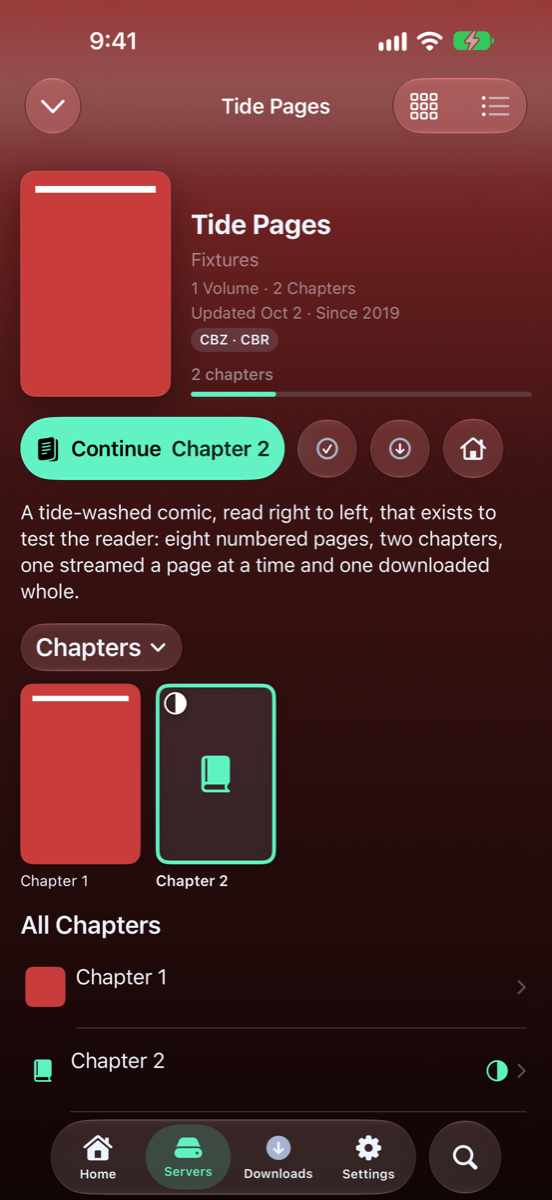
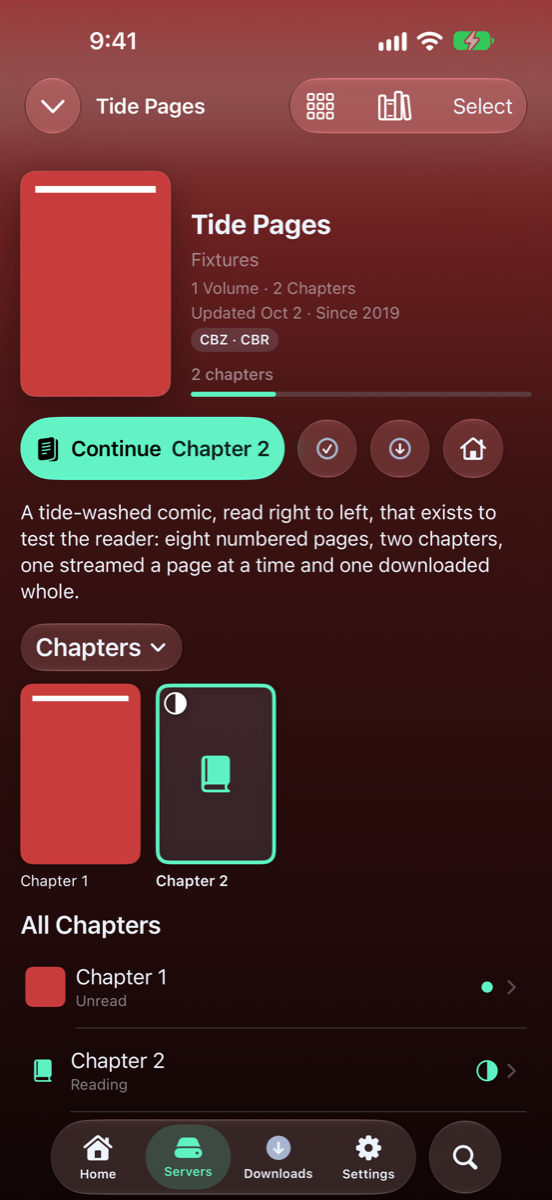
Publish the guide (from 4f49033b)

diff --git a/OPDS-Catalogs.md b/OPDS-Catalogs.md
@@ -104,7 +104,11 @@ A library's series show as covers, three across or more. The library's name is a
 
 A series page shows its cover, summary and progress, and a button for what to read next. The button says **Start Reading**, **Continue**, **Read Next** or **Read Again**, whichever fits where you are. **Volumes** and **Chapters** switch between the two when a series has both.
 
-A book you've finished carries a check mark in a circle. A book you've started carries a half-filled circle. The check-mark button next to the next-up button marks every book in the series as read in one go (or unread, once it's all read): it asks first, and **Mark as Read** (or **Mark as Unread**) confirms.
+Each book in the list says how far you've got: **Read** with a check mark in a circle, the page you're on (**Page 12 of 40**) with a half-filled circle, or **Unread** with a dot. The same goes for a folder of comics on a share.
+
+Swipe right on a book to mark it read, or unread if it's read. To mark several, tap **Select**, tap the books, then **Mark Read or Unread** at the bottom. Pressing and holding a book offers **Mark as Read** and **Mark as Unread** too. Kavita and Komga keep the change, so it shows in their own apps. If you'd rather not have the swipe, turn off Settings → **Catalogs** → **Swipe to Mark Read**.
+
+The check-mark button next to the next-up button marks every book in the series as read in one go (or unread, once it's all read): it asks first, and **Mark as Read** (or **Mark as Unread**) confirms.
 
 If you'd rather not have series pages, turn off Settings → **Catalogs** → **Series Pages**.
 

diff --git a/whats-new.md b/whats-new.md
@@ -12,6 +12,29 @@ The highlights of each MK Plus update since public TestFlight testing began (ver
 
 ## November 2026
 
+### See and set what you've read in a series
+
+_Version 1.409.0 · 22 November 2026_
+
+- Each volume or chapter in a series now says whether it's read, where you are in it, or unread.
+- Swipe right on one to mark it read or unread.
+- Tap Select to mark several at once.
+
+<details markdown="1">
+<summary>Everything in 1.409.0</summary>
+
+**New**
+
+- Read status on every book in Kavita, Komga and comics folders: Read, Page 12 of 40, or Unread.
+- Swipe to Mark Read, and Mark Read or Unread for everything selected.
+- Mark as Read and Mark as Unread when you press and hold a book.
+
+**Changed**
+
+- The arrow at the end of each row sits a little further from the edge.
+
+</details>
+
 ### Jellyfin audiobooks pick up where you left off
 
 _Version 1.408.0 · 21 November 2026_
